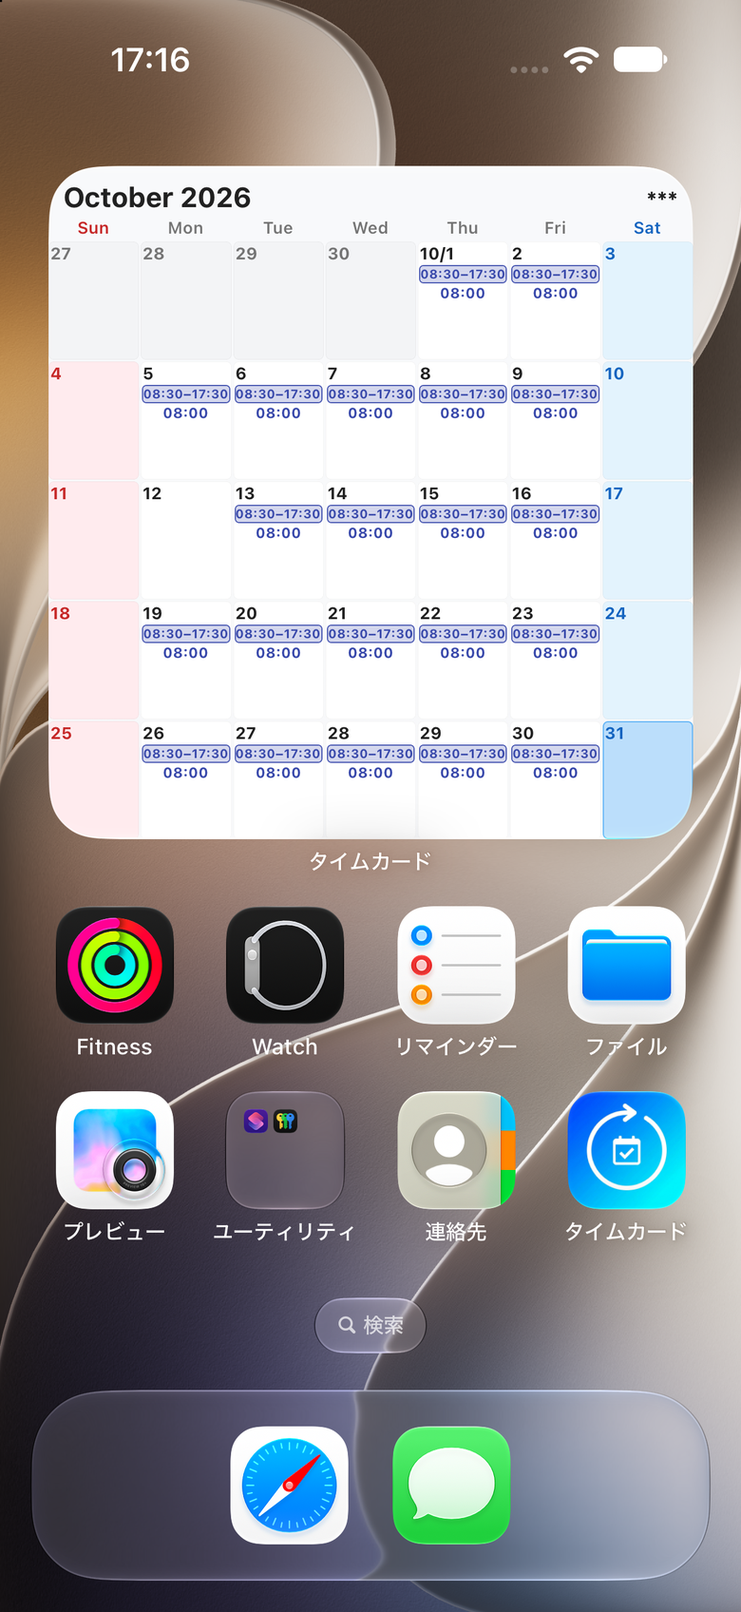
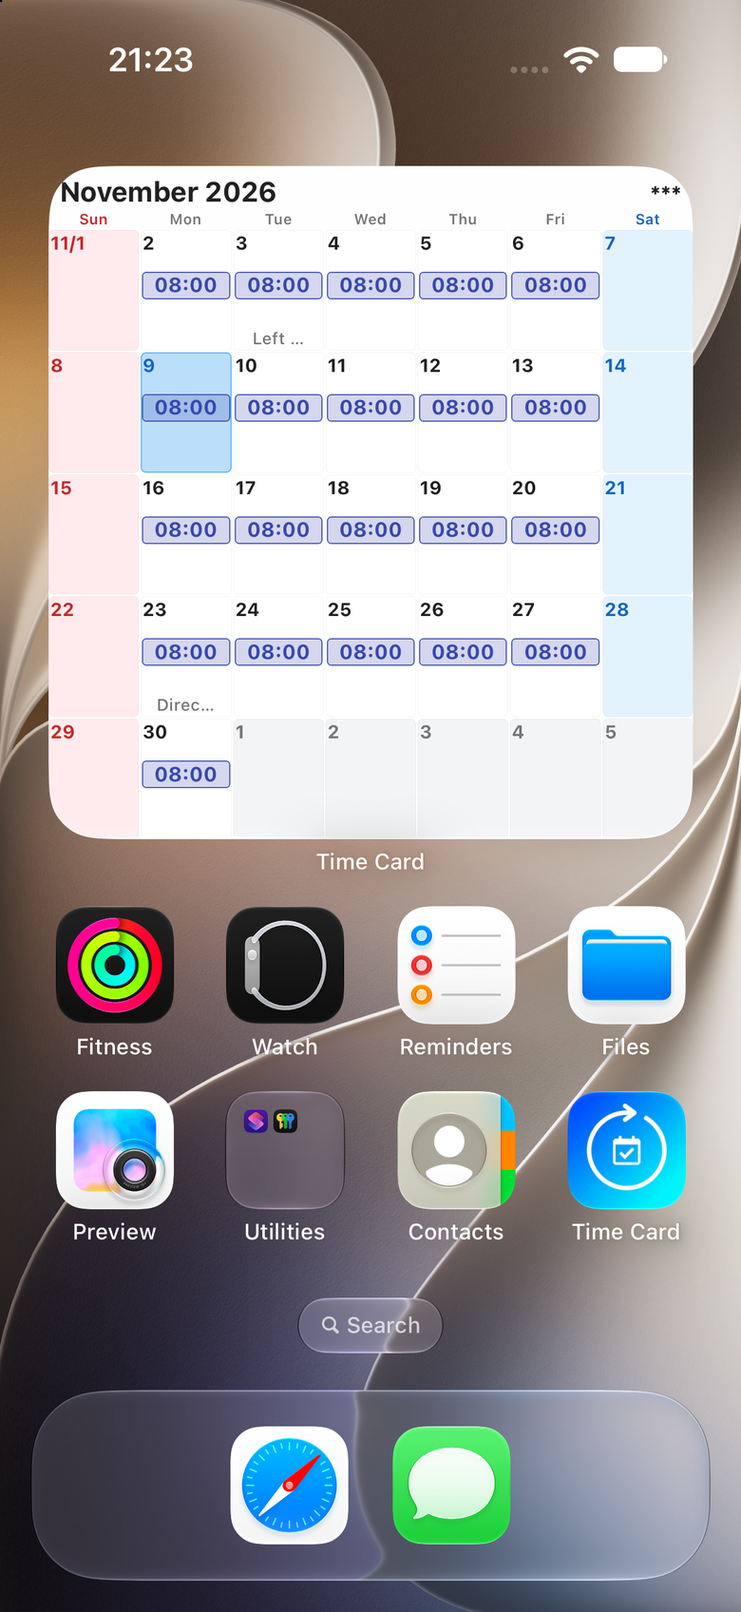
3.5.1の内容を公式サイトに反映する 最新情報・FAQ・ウィジェット案内とシフトカレンダースクショを更新。

diff --git a/index.html b/index.html
@@ -194,7 +194,7 @@
                 "name": "ウィジェットからシフトカレンダーを見られますか？",
                 "acceptedAnswer": {
                   "@type": "Answer",
-                  "text": "はい。Ver. 3.5.0 以降、ホーム画面にウィジェット「シフトカレンダー」を追加すると、アプリを開かなくてもシフトを確認できます。iPhone は中サイズが今週、大サイズが今月です。Android は今月です。日をタップすると、その日が開きます。"
+                  "text": "はい。Ver. 3.5.0 以降、ホーム画面にウィジェット「シフトカレンダー」を追加すると、アプリを開かなくてもシフトを確認できます。iPhone は中サイズが今週、大サイズが今月です（自由な縦リサイズはできません）。Android は今月で、追加時の目安は4×4です。小さくすると補助の時間表示などを省略しますが、祝日名と備考は表示します。日をタップすると、その日が開きます。Ver. 3.5.1 では表示の揃えと Android の不透明度設定などに対応しています。"
                 }
               }
             ]
@@ -334,53 +334,42 @@
         <div class="container">
           <h2 class="section-title">最新情報</h2>
           <p class="section-lead">
-            Ver. 3.5.0 のお知らせです。月次の集計単位をあとから切り替えられるようになり、ホーム画面のウィジェットからシフトカレンダーを見られるようになりました。
+            Ver. 3.5.1 のお知らせです。シフトカレンダーとウィジェットの表示を整え、祝日・備考・時間表示をアプリに近づけました。
           </p>
           <div class="whats-new-grid">
             <article class="whats-new-card">
               <header class="whats-new-header">
-                <span class="whats-new-version">Ver. 3.5.0</span>
-                <span class="whats-new-date">2026年10月</span>
+                <span class="whats-new-version">Ver. 3.5.1</span>
+                <span class="whats-new-date">2026年11月</span>
               </header>
               <div class="whats-new-point">
-                <h3>月次の集計単位を、締日と勤務先から選べます</h3>
+                <h3>シフトカレンダーの表示をアプリに近づけました</h3>
                 <p>
-                  月次のまとめ方を、あとから変更できます。
+                  日セルの祝日・備考の位置を揃え、読みやすくしました。
                 </p>
                 <ul class="whats-new-list">
-                  <li>
-                    <strong>締日</strong>
-                    — 同じ締め日の勤務先を、ひとつにまとめて集計します。
-                  </li>
-                  <li>
-                    <strong>勤務先</strong>
-                    — 選んだ勤務先だけを、その勤務先の締め日で区切って集計します。
-                  </li>
+                  <li>備考は改行入力できます（1勤務は最大3行、2勤務以上は1行）。</li>
+                  <li>アプリの時間表示（時間帯／稼働時間）がウィジェットにも反映されます。</li>
+                  <li>日本語では祝日名を、小さくしても表示します。</li>
                 </ul>
-                <p>
-                  変更は「設定」→「アプリの基本設定」の「集計対象」から行います。勤務先が1件のときは、切り替えは出ません。年次の集計も、同じ単位です。
-                </p>
               </div>
               <div class="whats-new-point">
-                <h3>ウィジェットからシフトカレンダーを見られます</h3>
-                <p>
-                  ホーム画面にウィジェット「シフトカレンダー」を追加すると、アプリを開かなくてもシフトを確認できます。
-                </p>
+                <h3>Android ウィジェットを使いやすくしました</h3>
                 <ul class="whats-new-list">
-                  <li>iPhone は、中サイズが今週、大サイズが今月です。</li>
-                  <li>Android は、今月のシフトです。</li>
-                  <li>日をタップすると、その日の画面が開きます。</li>
+                  <li>シフトカレンダーの追加時の目安は <strong>4×4</strong>。文字を大きくしています。</li>
+                  <li>「ホームとウィジェット」で背景の<strong>不透明度</strong>を変えられます。</li>
+                  <li>1×1・2×1 の打刻ウィジェットで時刻が見切れにくいようにしました。</li>
                 </ul>
                 <p>
-                  追加は、ホーム画面を長押しして、ウィジェット一覧から「シフトカレンダー」を選びます。
+                  iPhone の中サイズは今週、大サイズは今月です。背景の不透明度設定は Android のみです。
                 </p>
               </div>
               <p class="whats-new-more">
                 操作の詳細は
-                <a href="monthly-totals.html">月次の集計を締め日と勤務先で切り替える</a>
-                と
                 <a href="widget-shift.html">ホーム画面のウィジェットで打刻とシフトを見る</a>
-                をご覧ください。
+                をご覧ください。集計単位の切り替えは Ver. 3.5.0 からの機能で、
+                <a href="monthly-totals.html">月次の集計を締め日と勤務先で切り替える</a>
+                にまとめています。
               </p>
             </article>
             <figure class="whats-new-shot">
@@ -505,7 +494,7 @@
             <details class="faq-item">
               <summary>ウィジェットからシフトカレンダーを見られますか？</summary>
               <p>
-                はい。Ver. 3.5.0 以降、ホーム画面にウィジェット<strong>「シフトカレンダー」</strong>を追加すると、アプリを開かなくてもシフトを確認できます。iPhone は中サイズが今週、大サイズが今月です。Android は今月です。日をタップすると、その日が開きます。
+                はい。Ver. 3.5.0 以降、ホーム画面にウィジェット<strong>「シフトカレンダー」</strong>を追加すると、アプリを開かなくてもシフトを確認できます。iPhone は中サイズが今週、大サイズが今月です（自由な縦リサイズはできません）。Android は今月で、追加時の目安は<strong>4×4</strong>です。小さくすると補助の時間表示などを省略しますが、<strong>祝日名と備考は表示</strong>します。日をタップすると、その日が開きます。Ver. 3.5.1 では表示の揃えと、Android の背景不透明度設定などに対応しています。
               </p>
             </details>
           </div>
@@ -681,8 +670,9 @@
                   ウィジェット「シフトカレンダー」で、暦月の勤務を確認できます。日をタップすると、その日の編集が開きます。
                 </p>
                 <ul>
-                  <li>iPhone は中サイズが今週、大サイズが今月。Android は今月</li>
-                  <li>日本語では祝日名、余裕がある日は稼働時間も表示</li>
+                  <li>iPhone は中サイズが今週、大サイズが今月（自由リサイズ不可）。Android は追加時の目安が4×4</li>
+                  <li>日本語では祝日名を表示（小さくしても維持）。備考の改行にも対応</li>
+                  <li>アプリの時間表示設定がウィジェットにも反映。Android は背景の不透明度も設定可能</li>
                   <li>給与目安は *** で隠せます。打刻用ウィジェットも引き続き使えます</li>
                 </ul>
               </div>

diff --git a/index-en.html b/index-en.html
@@ -193,7 +193,7 @@
                 "name": "Can I open the shift calendar from a widget?",
                 "acceptedAnswer": {
                   "@type": "Answer",
-                  "text": "Yes. From Ver. 3.5.0, add the Home Screen widget named Shift calendar to see shifts without opening the app. On iPhone, medium shows this week and large shows this month. Android shows this month. Tap a day to open it."
+                  "text": "Yes. From Ver. 3.5.0, add the Home Screen widget named Shift calendar to see shifts without opening the app. On iPhone, medium shows this week and large shows this month. Android shows this month and defaults to about 4×4. Resizing shorter hides aux hours first; holiday names and memos stay visible. Tap a day to open it. Ver. 3.5.1 improves layout alignment and adds Android background opacity."
                 }
               }
             ]
@@ -332,52 +332,41 @@
         <div class="container">
           <h2 class="section-title">What's new</h2>
           <p class="section-lead">
-            Ver. 3.5.0: you can change how monthly totals are grouped, and open the shift calendar from a Home Screen widget.
+            Ver. 3.5.1: shift calendar and widgets now match the app more closely for holidays, memos, and time display.
           </p>
           <div class="whats-new-grid">
             <article class="whats-new-card">
               <header class="whats-new-header">
-                <span class="whats-new-version">Ver. 3.5.0</span>
-                <span class="whats-new-date">October 2026</span>
+                <span class="whats-new-version">Ver. 3.5.1</span>
+                <span class="whats-new-date">November 2026</span>
               </header>
               <div class="whats-new-point">
-                <h3>Choose monthly totals by cutoff day or workplace</h3>
+                <h3>Shift calendar layout matches the app</h3>
                 <p>
-                  You can change how the month is totaled.
+                  Holiday and memo slots stay aligned, and the calendar is easier to read.
                 </p>
                 <ul class="whats-new-list">
-                  <li>
-                    <strong>Cutoff day</strong>
-                    — Combine every workplace that shares the same cutoff.
-                  </li>
-                  <li>
-                    <strong>Workplace</strong>
-                    — Total only the workplace you pick, using that workplace’s cutoff period.
-                  </li>
+                  <li>Memos support line breaks (up to 3 lines with one shift, 1 line with two or more).</li>
+                  <li>App time display (range / hours) is reflected on the widget.</li>
+                  <li>In Japanese, holiday names stay visible even when the widget is smaller.</li>
                 </ul>
-                <p>
-                  Change it in Settings → App basic settings → Totals grouped by. The switch is hidden when you have one workplace. Year uses the same grouping.
-                </p>
               </div>
               <div class="whats-new-point">
-                <h3>See the shift calendar from a widget</h3>
-                <p>
-                  Add the Home Screen widget named Shift calendar to check shifts without opening the app.
-                </p>
+                <h3>Android widgets are easier to use</h3>
                 <ul class="whats-new-list">
-                  <li>On iPhone, medium shows this week and large shows this month.</li>
-                  <li>On Android, the widget shows this month.</li>
-                  <li>Tap a day to open that day.</li>
+                  <li>Shift calendar defaults to about <strong>4×4</strong> with larger type.</li>
+                  <li>Set background <strong>opacity</strong> in Home &amp; widget settings.</li>
+                  <li>1×1 and 2×1 punch widgets are less likely to clip times.</li>
                 </ul>
                 <p>
-                  Long-press the Home Screen and choose Shift calendar from the widget gallery.
+                  On iPhone, medium shows this week and large shows this month. Background opacity is Android only.
                 </p>
               </div>
               <p class="whats-new-more">
                 See
-                <a href="monthly-totals-en.html">Group monthly totals by cutoff day or workplace</a>
-                and
                 <a href="widget-shift-en.html">See punches and shifts from a Home Screen widget</a>.
+                Totals grouping has been available since Ver. 3.5.0 —
+                <a href="monthly-totals-en.html">Group monthly totals by cutoff day or workplace</a>.
               </p>
             </article>
             <figure class="whats-new-shot">
@@ -502,7 +491,7 @@
             <details class="faq-item">
               <summary>Can I open the shift calendar from a widget?</summary>
               <p>
-                Yes. From Ver. 3.5.0, add the Home Screen widget named <strong>Shift calendar</strong> to see shifts without opening the app. On iPhone, medium shows this week and large shows this month. Android shows this month. Tap a day to open it.
+                Yes. From Ver. 3.5.0, add the Home Screen widget named <strong>Shift calendar</strong> to see shifts without opening the app. On iPhone, medium shows this week and large shows this month. Android shows this month and defaults to about <strong>4×4</strong>. Resizing shorter hides aux hours first; <strong>holiday names and memos stay visible</strong>. Tap a day to open it. Ver. 3.5.1 improves layout alignment and adds Android background opacity.
               </p>
             </details>
           </div>
@@ -678,8 +667,9 @@
                   Add the widget named Shift calendar to see the calendar month. Tap a day to edit it.
                 </p>
                 <ul>
-                  <li>On iPhone, medium is this week and large is this month. Android shows this month</li>
-                  <li>Hours appear when a day has room. Holiday names stay in Japanese UI only</li>
+                  <li>On iPhone, medium is this week and large is this month. Android defaults to about 4×4</li>
+                  <li>In Japanese, holiday names stay visible when smaller. Memos support line breaks</li>
+                  <li>App time display is reflected on the widget. Android can set background opacity</li>
                   <li>Hide estimated pay as ***. The punch widget is still available</li>
                 </ul>
               </div>

diff --git a/widget-shift.html b/widget-shift.html
@@ -99,10 +99,10 @@
     <main class="guide-page">
       <div class="container">
         <header class="guide-header">
-          <p class="eyebrow">使い方 · Ver. 3.5.0</p>
+          <p class="eyebrow">使い方 · Ver. 3.5.1</p>
           <h1>ホーム画面のウィジェットで打刻とシフトを見る</h1>
           <p class="lead">
-            タイムカードは、アプリを開かなくてもホーム画面から出退勤でき、今月のシフトも同じ場所で確認できます。使うウィジェットは2種類です。
+            タイムカードは、アプリを開かなくてもホーム画面から出退勤でき、今月のシフトも同じ場所で確認できます。使うウィジェットは2種類です。Ver. 3.5.1 では表示の揃えと Android 向けの設定を強化しています。
           </p>
           <p class="lang-switch">
             <a href="widget-shift-en.html" hreflang="en">English</a>
@@ -134,11 +134,11 @@
             <h3>iPhone と Android の違い</h3>
             <ul>
               <li>iPhone の中サイズは今週です。その週の出勤日数と合計時間も出ます。</li>
-              <li>iPhone の大サイズは今月です。</li>
-              <li>Android は今月のカレンダーです。</li>
+              <li>iPhone の大サイズは今月です。サイズは中／大の2種類のみで、自由な縦リサイズはできません。</li>
+              <li>Android は今月のカレンダーです（追加時の目安は<strong>4×4</strong>）。文字を大きくしています。縦に縮めると補助の時間表示などを省略しますが、<strong>祝日名と備考は表示</strong>します。</li>
             </ul>
             <p>
-              マスは暦月です。各日に始業から終業の時間帯を出します。セルに余裕がある日は、稼働時間も出します。アプリの言語が日本語のときは国民の祝日名を表示し、英語のときは出しません。
+              マスは暦月です。各日に始業から終業の時間帯を出します。セルに余裕がある日は、稼働時間も出します。日セルはアプリ内カレンダーと同じく祝日・備考の位置を揃えます。備考は改行できます（1勤務は最大3行、2勤務以上は1行）。アプリの「カレンダーの時間表示」（時間帯／稼働時間）はウィジェットにも反映されます。アプリの言語が日本語のときは国民の祝日名を表示し、英語のときは出しません。
             </p>
             <p>
               予定だけの日は破線で区別します。右上の給与目安は、打刻ウィジェットと同じく表示と非表示を選べます。非表示のときは *** です。給与には実績だけを数えます。
@@ -162,9 +162,12 @@
             <ol class="guide-steps">
               <li>ホーム画面を長押しし、タイムカードの打刻用ウィジェットを追加します。手順は iPhone と Android で異なります。</li>
               <li>
-                アプリ内の<strong>設定</strong> → <strong>ホーム画面ウィジェット</strong>で、打刻に使う勤務先（自動／固定）を選びます。ウィジェットに月次給与の目安を出すかも、ここで切り替えます。
+                アプリ内の<strong>設定</strong> → <strong>ホームとウィジェット</strong>で、打刻に使う勤務先（自動／固定）を選びます。ウィジェットに月次給与の目安を出すかも、ここで切り替えます。
               </li>
-              <li>ウィジェットのボタンから出勤・退勤します。</li>
+              <li>
+                Android では、同じ画面で<strong>ウィジェット背景の不透明度</strong>を変えられます（10%〜100%。枠とシフトカレンダーのセル塗りにも反映）。iPhone では WidgetKit の制約のため、この項目は出ません。
+              </li>
+              <li>ウィジェットのボタンから出勤・退勤します。Android の 1×1・2×1 では時刻が見切れにくいよう調整しています。</li>
             </ol>
             <p class="guide-note">
               見た目とサイズは OS の仕様に従います。動かないときは、アプリのホーム画面から打刻してください。

diff --git a/help.html b/help.html
@@ -368,7 +368,7 @@
                 <strong>休暇フラグ</strong> — ラベル横の <strong>?</strong> で説明を確認できます。
               </li>
               <li>
-                <strong>備考</strong>（1行）や、早退・直行・有給などのタグを利用できます。
+                <strong>備考</strong>（改行可。カレンダーでは1勤務の日は最大3行、2勤務以上は1行）や、早退・直行・有給などのタグを利用できます。
               </li>
               <li>
                 画面上部の<strong>保存</strong>で確定します。編集後に日付を変えると、未保存の内容がある場合は確認が表示されます。
@@ -430,7 +430,7 @@
           <section id="widget" class="guide-section">
             <h2>ホーム画面ウィジェット</h2>
             <p>
-              打刻用のウィジェットに加えて、Ver. 3.5.0 から<strong>シフトカレンダー</strong>をホーム画面に置けます。ウィジェット一覧での名前は「シフトカレンダー」です。手順は
+              打刻用のウィジェットに加えて、Ver. 3.5.0 から<strong>シフトカレンダー</strong>をホーム画面に置けます（Ver. 3.5.1 で表示を強化）。ウィジェット一覧での名前は「シフトカレンダー」です。手順は
               <a href="widget-shift.html">ホーム画面のウィジェットで打刻とシフトを見る</a>
               にまとめています。
             </p>
@@ -438,9 +438,10 @@
             <ul>
               <li>ホーム画面を長押しし、ウィジェットから「シフトカレンダー」を追加します。</li>
               <li>
-                iPhone の中サイズは<strong>今週</strong>（出勤日数と合計時間）、大サイズは<strong>今月</strong>です。Android は今月のカレンダーです。
+                iPhone の中サイズは<strong>今週</strong>（出勤日数と合計時間）、大サイズは<strong>今月</strong>です。中／大の2種類のみで、自由な縦リサイズはできません。Android は今月のカレンダーで、追加時の目安は<strong>4×4</strong>です。縦に縮めると補助の時間表示などを省略しますが、<strong>祝日名と備考は表示</strong>します。
               </li>
-              <li>マスは暦月です。各日に始業から終業を出し、余裕がある日は稼働時間も出します。</li>
+              <li>マスは暦月です。各日に始業から終業を出し、余裕がある日は稼働時間も出します。祝日・備考の位置はアプリのカレンダーに揃えます。備考は改行可（1勤務は最大3行、2勤務以上は1行）。</li>
+              <li>アプリの「カレンダーの時間表示」（時間帯／稼働時間）はウィジェットにも反映されます。</li>
               <li>日本語では国民の祝日名を表示します。英語では祝日名は出しません。</li>
               <li>日をタップすると、その日の編集画面が開きます。</li>
               <li>
@@ -466,7 +467,7 @@
             <ol class="guide-steps">
               <li>端末の設定で、本アプリの打刻用ウィジェットをホーム画面に追加します。</li>
               <li>
-                アプリ内 <strong>設定</strong> → <strong>ホーム画面ウィジェット</strong>で、打刻に使う勤務先（自動／固定）や、ウィジェットに月次給与の目安を表示するかを選びます。
+                アプリ内 <strong>設定</strong> → <strong>ホームとウィジェット</strong>で、打刻に使う勤務先（自動／固定）や、ウィジェットに月次給与の目安を表示するかを選びます。Android では背景の不透明度もここで変えられます。
               </li>
               <li>ウィジェット上のボタンから出勤・退勤などを実行します。</li>
             </ol>

diff --git a/widget-shift-en.html b/widget-shift-en.html
@@ -99,10 +99,10 @@
     <main class="guide-page">
       <div class="container">
         <header class="guide-header">
-          <p class="eyebrow">Guide · Ver. 3.5.0</p>
+          <p class="eyebrow">Guide · Ver. 3.5.1</p>
           <h1>See punches and shifts from a Home Screen widget</h1>
           <p class="lead">
-            Time Card can clock you in and out from the Home Screen, and show this month’s shifts there too. There are two widgets.
+            Time Card can clock you in and out from the Home Screen, and show this month’s shifts there too. There are two widgets. Ver. 3.5.1 improves layout alignment and Android settings.
           </p>
           <p class="lang-switch">
             <a href="widget-shift.html" hreflang="ja">日本語</a>
@@ -132,11 +132,11 @@
             <h3>iPhone and Android</h3>
             <ul>
               <li>On iPhone, medium shows this week, including how many days you worked and the total hours.</li>
-              <li>On iPhone, large shows this month.</li>
-              <li>On Android, the widget shows this month.</li>
+              <li>On iPhone, large shows this month. Only medium and large are available; free vertical resizing is not supported.</li>
+              <li>On Android, the widget shows this month (default about <strong>4×4</strong>) with larger type. Resizing shorter hides aux hours first; <strong>holiday names and memos stay visible</strong>.</li>
             </ul>
             <p>
-              The grid is the calendar month. Each day shows a start-to-end time range, and hours worked when the cell has room. Japanese public holiday names appear only when the app language is Japanese.
+              The grid is the calendar month. Each day shows a start-to-end time range, and hours worked when the cell has room. Day cells keep holiday and memo slots aligned like the in-app calendar. Memos support line breaks (up to 3 lines with one shift, 1 line with two or more). App calendar time display (range / hours) is reflected on the widget. Japanese public holiday names appear only when the app language is Japanese.
             </p>
             <p>
               Planned-only days stay dashed. Estimated pay in the corner uses the same show/hide setting as the punch widget. Hidden pay appears as ***. Pay counts actual times only.
@@ -160,9 +160,12 @@
             <ol class="guide-steps">
               <li>Long-press the Home Screen and add the Time Card punch widget. The steps differ on iPhone and Android.</li>
               <li>
-                In the app, open <strong>Settings</strong> → <strong>Home screen widget</strong>. Choose an automatic or fixed workplace, and whether estimated monthly pay is shown.
+                In the app, open <strong>Settings</strong> → <strong>Home &amp; widget</strong>. Choose an automatic or fixed workplace, and whether estimated monthly pay is shown.
               </li>
-              <li>Use the widget buttons to clock in or out.</li>
+              <li>
+                On Android, set <strong>widget background opacity</strong> on the same screen (10%–100%; applies to the frame and shift calendar cell fills). This option is not shown on iPhone because of WidgetKit limits.
+              </li>
+              <li>Use the widget buttons to clock in or out. On Android, 1×1 and 2×1 layouts are tuned so times are less likely to clip.</li>
             </ol>
             <p class="guide-note">
               Size and layout follow the operating system. If the widget does not respond, clock in from the Home tab in the app.

diff --git a/help-en.html b/help-en.html
@@ -405,16 +405,17 @@
           <section id="widget" class="guide-section">
             <h2>Home screen widget</h2>
             <p>
-              Besides the punch widget, Ver. 3.5.0 adds a <strong>Shift calendar</strong>. Steps are in
+              Besides the punch widget, Ver. 3.5.0 adds a <strong>Shift calendar</strong> (improved in Ver. 3.5.1). Steps are in
               <a href="widget-shift-en.html">See punches and shifts from a Home Screen widget</a>.
             </p>
             <h3>Shift calendar</h3>
             <ul>
               <li>Long-press the Home Screen and add Shift calendar.</li>
               <li>
-                On iPhone, medium shows <strong>this week</strong> (days worked and total hours) and large shows <strong>this month</strong>. Android shows this month.
+                On iPhone, medium shows <strong>this week</strong> (days worked and total hours) and large shows <strong>this month</strong>. Android shows this month and defaults to about <strong>4×4</strong>. Resizing shorter hides aux hours first; holiday names and memos stay visible.
               </li>
-              <li>The grid is the calendar month. Each day shows a start-to-end range, and hours worked when the cell has room.</li>
+              <li>The grid is the calendar month. Each day shows a start-to-end range, and hours worked when the cell has room. Holiday and memo slots align with the in-app calendar. Memos support line breaks.</li>
+              <li>App calendar time display (range / hours) is reflected on the widget.</li>
               <li>Japanese public holiday names appear only when the app language is Japanese.</li>
               <li>Tap a day to open that day for editing.</li>
               <li>
@@ -440,7 +441,7 @@
             <ol class="guide-steps">
               <li>Add the Time Card punch widget from your device’s home screen settings.</li>
               <li>
-                In the app: <strong>Settings</strong> → <strong>Home screen widget</strong> — choose automatic or fixed workplace for punches, and whether to show estimated monthly pay on the widget.
+                In the app: <strong>Settings</strong> → <strong>Home &amp; widget</strong> — choose automatic or fixed workplace for punches, and whether to show estimated monthly pay on the widget. On Android you can also set background opacity there.
               </li>
               <li>Use the widget buttons to clock in or out.</li>
             </ol>
